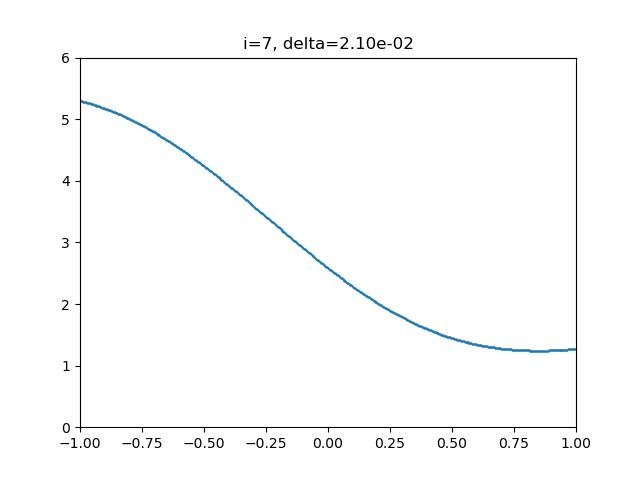
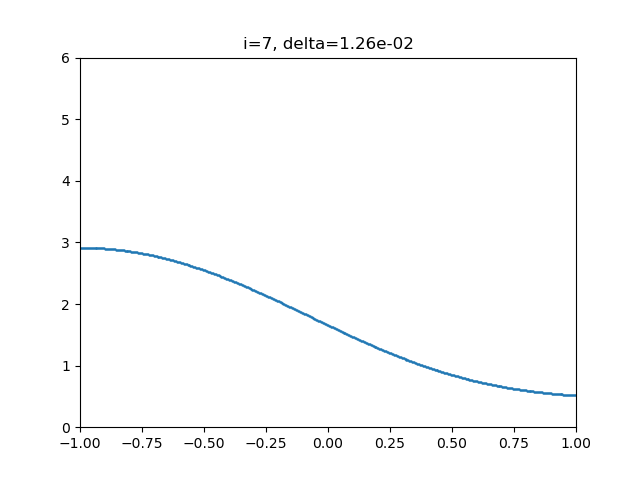
task 7 was fixed, task 8 was added

diff --git a/outputs/0_animation.html b/outputs/0_animation.html
@@ -184,39 +184,39 @@ input[type=range].anim-slider {
 </style>
 
 <div class="animation">
-  <img id="_anim_imgc8ce92f489d84e89b8b072ae55164c63">
+  <img id="_anim_imgd9055da04b454811bb088c3e8a7cc24a">
   <div class="anim-controls">
-    <input id="_anim_sliderc8ce92f489d84e89b8b072ae55164c63" type="range" class="anim-slider"
+    <input id="_anim_sliderd9055da04b454811bb088c3e8a7cc24a" type="range" class="anim-slider"
            name="points" min="0" max="1" step="1" value="0"
-           oninput="animc8ce92f489d84e89b8b072ae55164c63.set_frame(parseInt(this.value));"></input>
+           oninput="animd9055da04b454811bb088c3e8a7cc24a.set_frame(parseInt(this.value));"></input>
     <div class="anim-buttons">
-      <button onclick="animc8ce92f489d84e89b8b072ae55164c63.slower()"><i class="fa fa-minus"></i></button>
-      <button onclick="animc8ce92f489d84e89b8b072ae55164c63.first_frame()"><i class="fa fa-fast-backward">
+      <button onclick="animd9055da04b454811bb088c3e8a7cc24a.slower()"><i class="fa fa-minus"></i></button>
+      <button onclick="animd9055da04b454811bb088c3e8a7cc24a.first_frame()"><i class="fa fa-fast-backward">
           </i></button>
-      <button onclick="animc8ce92f489d84e89b8b072ae55164c63.previous_frame()">
+      <button onclick="animd9055da04b454811bb088c3e8a7cc24a.previous_frame()">
           <i class="fa fa-step-backward"></i></button>
-      <button onclick="animc8ce92f489d84e89b8b072ae55164c63.reverse_animation()">
+      <button onclick="animd9055da04b454811bb088c3e8a7cc24a.reverse_animation()">
           <i class="fa fa-play fa-flip-horizontal"></i></button>
-      <button onclick="animc8ce92f489d84e89b8b072ae55164c63.pause_animation()"><i class="fa fa-pause">
+      <button onclick="animd9055da04b454811bb088c3e8a7cc24a.pause_animation()"><i class="fa fa-pause">
           </i></button>
-      <button onclick="animc8ce92f489d84e89b8b072ae55164c63.play_animation()"><i class="fa fa-play"></i>
+      <button onclick="animd9055da04b454811bb088c3e8a7cc24a.play_animation()"><i class="fa fa-play"></i>
           </button>
-      <button onclick="animc8ce92f489d84e89b8b072ae55164c63.next_frame()"><i class="fa fa-step-forward">
+      <button onclick="animd9055da04b454811bb088c3e8a7cc24a.next_frame()"><i class="fa fa-step-forward">
           </i></button>
-      <button onclick="animc8ce92f489d84e89b8b072ae55164c63.last_frame()"><i class="fa fa-fast-forward">
+      <button onclick="animd9055da04b454811bb088c3e8a7cc24a.last_frame()"><i class="fa fa-fast-forward">
           </i></button>
-      <button onclick="animc8ce92f489d84e89b8b072ae55164c63.faster()"><i class="fa fa-plus"></i></button>
+      <button onclick="animd9055da04b454811bb088c3e8a7cc24a.faster()"><i class="fa fa-plus"></i></button>
     </div>
-    <form action="#n" name="_anim_loop_selectc8ce92f489d84e89b8b072ae55164c63" class="anim-state">
-      <input type="radio" name="state" value="once" id="_anim_radio1_c8ce92f489d84e89b8b072ae55164c63"
+    <form action="#n" name="_anim_loop_selectd9055da04b454811bb088c3e8a7cc24a" class="anim-state">
+      <input type="radio" name="state" value="once" id="_anim_radio1_d9055da04b454811bb088c3e8a7cc24a"
              >
-      <label for="_anim_radio1_c8ce92f489d84e89b8b072ae55164c63">Once</label>
-      <input type="radio" name="state" value="loop" id="_anim_radio2_c8ce92f489d84e89b8b072ae55164c63"
+      <label for="_anim_radio1_d9055da04b454811bb088c3e8a7cc24a">Once</label>
+      <input type="radio" name="state" value="loop" id="_anim_radio2_d9055da04b454811bb088c3e8a7cc24a"
              checked>
-      <label for="_anim_radio2_c8ce92f489d84e89b8b072ae55164c63">Loop</label>
-      <input type="radio" name="state" value="reflect" id="_anim_radio3_c8ce92f489d84e89b8b072ae55164c63"
+      <label for="_anim_radio2_d9055da04b454811bb088c3e8a7cc24a">Loop</label>
+      <input type="radio" name="state" value="reflect" id="_anim_radio3_d9055da04b454811bb088c3e8a7cc24a"
              >
-      <label for="_anim_radio3_c8ce92f489d84e89b8b072ae55164c63">Reflect</label>
+      <label for="_anim_radio3_d9055da04b454811bb088c3e8a7cc24a">Reflect</label>
     </form>
   </div>
 </div>
@@ -226,12 +226,12 @@ input[type=range].anim-slider {
   /* Instantiate the Animation class. */
   /* The IDs given should match those used in the template above. */
   (function() {
-    var img_id = "_anim_imgc8ce92f489d84e89b8b072ae55164c63";
-    var slider_id = "_anim_sliderc8ce92f489d84e89b8b072ae55164c63";
-    var loop_select_id = "_anim_loop_selectc8ce92f489d84e89b8b072ae55164c63";
-    var frames = new Array(12);
+    var img_id = "_anim_imgd9055da04b454811bb088c3e8a7cc24a";
+    var slider_id = "_anim_sliderd9055da04b454811bb088c3e8a7cc24a";
+    var loop_select_id = "_anim_loop_selectd9055da04b454811bb088c3e8a7cc24a";
+    var frames = new Array(13);
     
-  for (var i=0; i<12; i++){
+  for (var i=0; i<13; i++){
     frames[i] = "0_animation_frames/frame" + ("0000000" + i).slice(-7) +
                 ".png";
   }
@@ -240,7 +240,7 @@ input[type=range].anim-slider {
     /* set a timeout to make sure all the above elements are created before
        the object is initialized. */
     setTimeout(function() {
-        animc8ce92f489d84e89b8b072ae55164c63 = new Animation(frames, img_id, slider_id, 1000,
+        animd9055da04b454811bb088c3e8a7cc24a = new Animation(frames, img_id, slider_id, 1000,
                                  loop_select_id);
     }, 0);
   })()

diff --git a/outputs/1_animation.html b/outputs/1_animation.html
@@ -184,39 +184,39 @@ input[type=range].anim-slider {
 </style>
 
 <div class="animation">
-  <img id="_anim_img7eeaee0e0ad34b0995c63a7d59d06fbf">
+  <img id="_anim_imga8a99677afc74dcd87624b9c88a11443">
   <div class="anim-controls">
-    <input id="_anim_slider7eeaee0e0ad34b0995c63a7d59d06fbf" type="range" class="anim-slider"
+    <input id="_anim_slidera8a99677afc74dcd87624b9c88a11443" type="range" class="anim-slider"
            name="points" min="0" max="1" step="1" value="0"
-           oninput="anim7eeaee0e0ad34b0995c63a7d59d06fbf.set_frame(parseInt(this.value));"></input>
+           oninput="anima8a99677afc74dcd87624b9c88a11443.set_frame(parseInt(this.value));"></input>
     <div class="anim-buttons">
-      <button onclick="anim7eeaee0e0ad34b0995c63a7d59d06fbf.slower()"><i class="fa fa-minus"></i></button>
-      <button onclick="anim7eeaee0e0ad34b0995c63a7d59d06fbf.first_frame()"><i class="fa fa-fast-backward">
+      <button onclick="anima8a99677afc74dcd87624b9c88a11443.slower()"><i class="fa fa-minus"></i></button>
+      <button onclick="anima8a99677afc74dcd87624b9c88a11443.first_frame()"><i class="fa fa-fast-backward">
           </i></button>
-      <button onclick="anim7eeaee0e0ad34b0995c63a7d59d06fbf.previous_frame()">
+      <button onclick="anima8a99677afc74dcd87624b9c88a11443.previous_frame()">
           <i class="fa fa-step-backward"></i></button>
-      <button onclick="anim7eeaee0e0ad34b0995c63a7d59d06fbf.reverse_animation()">
+      <button onclick="anima8a99677afc74dcd87624b9c88a11443.reverse_animation()">
           <i class="fa fa-play fa-flip-horizontal"></i></button>
-      <button onclick="anim7eeaee0e0ad34b0995c63a7d59d06fbf.pause_animation()"><i class="fa fa-pause">
+      <button onclick="anima8a99677afc74dcd87624b9c88a11443.pause_animation()"><i class="fa fa-pause">
           </i></button>
-      <button onclick="anim7eeaee0e0ad34b0995c63a7d59d06fbf.play_animation()"><i class="fa fa-play"></i>
+      <button onclick="anima8a99677afc74dcd87624b9c88a11443.play_animation()"><i class="fa fa-play"></i>
           </button>
-      <button onclick="anim7eeaee0e0ad34b0995c63a7d59d06fbf.next_frame()"><i class="fa fa-step-forward">
+      <button onclick="anima8a99677afc74dcd87624b9c88a11443.next_frame()"><i class="fa fa-step-forward">
           </i></button>
-      <button onclick="anim7eeaee0e0ad34b0995c63a7d59d06fbf.last_frame()"><i class="fa fa-fast-forward">
+      <button onclick="anima8a99677afc74dcd87624b9c88a11443.last_frame()"><i class="fa fa-fast-forward">
           </i></button>
-      <button onclick="anim7eeaee0e0ad34b0995c63a7d59d06fbf.faster()"><i class="fa fa-plus"></i></button>
+      <button onclick="anima8a99677afc74dcd87624b9c88a11443.faster()"><i class="fa fa-plus"></i></button>
     </div>
-    <form action="#n" name="_anim_loop_select7eeaee0e0ad34b0995c63a7d59d06fbf" class="anim-state">
-      <input type="radio" name="state" value="once" id="_anim_radio1_7eeaee0e0ad34b0995c63a7d59d06fbf"
+    <form action="#n" name="_anim_loop_selecta8a99677afc74dcd87624b9c88a11443" class="anim-state">
+      <input type="radio" name="state" value="once" id="_anim_radio1_a8a99677afc74dcd87624b9c88a11443"
              >
-      <label for="_anim_radio1_7eeaee0e0ad34b0995c63a7d59d06fbf">Once</label>
-      <input type="radio" name="state" value="loop" id="_anim_radio2_7eeaee0e0ad34b0995c63a7d59d06fbf"
+      <label for="_anim_radio1_a8a99677afc74dcd87624b9c88a11443">Once</label>
+      <input type="radio" name="state" value="loop" id="_anim_radio2_a8a99677afc74dcd87624b9c88a11443"
              checked>
-      <label for="_anim_radio2_7eeaee0e0ad34b0995c63a7d59d06fbf">Loop</label>
-      <input type="radio" name="state" value="reflect" id="_anim_radio3_7eeaee0e0ad34b0995c63a7d59d06fbf"
+      <label for="_anim_radio2_a8a99677afc74dcd87624b9c88a11443">Loop</label>
+      <input type="radio" name="state" value="reflect" id="_anim_radio3_a8a99677afc74dcd87624b9c88a11443"
              >
-      <label for="_anim_radio3_7eeaee0e0ad34b0995c63a7d59d06fbf">Reflect</label>
+      <label for="_anim_radio3_a8a99677afc74dcd87624b9c88a11443">Reflect</label>
     </form>
   </div>
 </div>
@@ -226,9 +226,9 @@ input[type=range].anim-slider {
   /* Instantiate the Animation class. */
   /* The IDs given should match those used in the template above. */
   (function() {
-    var img_id = "_anim_img7eeaee0e0ad34b0995c63a7d59d06fbf";
-    var slider_id = "_anim_slider7eeaee0e0ad34b0995c63a7d59d06fbf";
-    var loop_select_id = "_anim_loop_select7eeaee0e0ad34b0995c63a7d59d06fbf";
+    var img_id = "_anim_imga8a99677afc74dcd87624b9c88a11443";
+    var slider_id = "_anim_slidera8a99677afc74dcd87624b9c88a11443";
+    var loop_select_id = "_anim_loop_selecta8a99677afc74dcd87624b9c88a11443";
     var frames = new Array(16);
     
   for (var i=0; i<16; i++){
@@ -240,7 +240,7 @@ input[type=range].anim-slider {
     /* set a timeout to make sure all the above elements are created before
        the object is initialized. */
     setTimeout(function() {
-        anim7eeaee0e0ad34b0995c63a7d59d06fbf = new Animation(frames, img_id, slider_id, 1000,
+        anima8a99677afc74dcd87624b9c88a11443 = new Animation(frames, img_id, slider_id, 1000,
                                  loop_select_id);
     }, 0);
   })()

diff --git a/mak_cm/task8.py b/mak_cm/task8.py
@@ -1,0 +1,187 @@
+'''Задание 8'''
+
+
+import numpy as np
+from scipy.integrate import simps
+from scipy.special import eval_jacobi, jacobi
+import matplotlib.pyplot as plt
+
+from task7 import BoundaryProblem, solve_bp_system
+
+
+class RitzFormProblem:
+    '''Ly = −(p(x)y′)′ + r(x)y = f(x)
+    
+    alpha1*y(-1) - alpha2*y'(-1) = 0
+    beta1*y(1) + beta2*y'(1) = 0
+    '''
+    def __init__(self, p, r, f, alpha1, alpha2, beta1, beta2):
+        self.p = p
+        self.r = r
+        self.f = f
+        self.alpha1 = alpha1
+        self.alpha2 = alpha2
+        self.beta1 = beta1
+        self.beta2 = beta2
+
+
+class Basis:
+    '''Базис функций'''
+    def __init__(self, w, diff_w):
+        if len(w) != len(diff_w):
+            raise ValueError('HMM!')
+        self.w = w
+        self.diff_w = diff_w
+
+
+def integrate(fun, A, B, m):
+    '''Метод составных квадратур СИМПСОН'''
+    h = (B - A)/(2*m)
+    s = fun(A) + fun(B)
+    for i in range(1, 2*m, 2):
+        s += 4*fun(A + i*h)
+    for i in range(2, 2*m-1, 2):
+        s += 2*fun(A + i*h)
+    s = s * (B - A) / (6*m)
+    return s
+
+
+def integration_wrapper(int_fun):
+    '''Декоратор для встроенных функций интегрирования'''
+    def wrapper(int_expr, a, b, n):
+        x = np.linspace(a, b, n)
+        y = np.vectorize(int_expr) (x)
+        return int_fun(y, x)
+    return wrapper
+
+
+class RitzSolver():
+    '''Алгоритм Ритца'''
+    def __init__(self, rfp, basis, integrator='scipy', n=100):
+        self.rfp = rfp
+        self.basis = basis
+        self.set_integrator(integrator)
+        self.n = n
+
+    def set_integrator(self, integrator='scipy'):
+        if integrator == 'numpy':
+            self.integrator = integration_wrapper(np.trapz)
+        elif integrator == 'scipy':
+            self.integrator = integration_wrapper(simps)
+        elif integrator == 'self-made':
+            self.integrator = integrate
+        else:
+            raise ValueError('Unknown type of integrator.')
+
+    def set_n(self, n):
+        '''Параметр для составной квадратурной формулы'''
+        self.n = n
+    
+    def set_basis(self, basis):
+        self.basis = basis
+
+    def bilineal_form(self, i, j):
+        '''Вычисляет билинейную между двумя векторами
+        базиса. Использует численные методы.'''
+        rfp, basis = self.rfp, self.basis
+
+        def int_expr(x):
+            return (rfp.p(x) * basis.diff_w[i](x) * basis.diff_w[j](x)
+                    + rfp.r(x) * basis.w[i](x) * basis.w[j](x))
+        
+        int_res = self.integrator(int_expr, -1, 1, self.n)
+        if rfp.alpha1 == 0 or rfp.alpha2 == 0:
+            Q_l = 0
+            Q_r = 0
+        else:
+            Q_l = (rfp.alpha1 / rfp.alpha2
+                   * rfp.p(-1) * basis.w[i](-1) * basis.w[j](-1))
+            Q_r = (rfp.beta1 / rfp.beta2 
+                   * rfp.p(1) * basis.w[i](1) * basis.w[j](1))
+        return int_res + Q_l + Q_r
+    
+    def scalar_mult(self, f, g):
+        '''Скалярное произведение в L2(-1, 1)'''
+        int_expr = lambda x: f(x)*g(x)
+        int_res = self.integrator(int_expr, -1, 1, self.n)
+        return int_res
+    
+    def solve(self):
+        '''Решает систему'''
+        b_len = len(self.basis.w) # Размер базиса
+        A = np.empty((b_len, b_len))
+        b = np.empty(b_len)
+        for i in range(b_len):
+            b[i] = self.scalar_mult(self.rfp.f, self.basis.w[i])
+            for j in range(b_len):
+                A[i, j] = self.bilineal_form(i, j)
+        return np.linalg.solve(A, b)
+
+
+def comp(x, basis, coefs):
+    '''Вычисляет ответ для заданых базиса и коэффициентов'''
+    s = 0
+    for w, c in zip(basis.w, coefs):
+        s += w(x)*c
+    return s
+
+
+def jacobi_polynom(n):
+    '''Многочлен Якоби k = 1'''
+    return lambda x: eval_jacobi(n, 1, 1, x)
+
+
+def jacobi_dx(n):
+    '''Производные'''
+    coefs = jacobi(n, 1, 1)
+    coefs_dx = np.polyder(coefs, 1)
+    return lambda x: np.sum(coefs_dx * np.power(x, np.arange(n + 1)))
+
+
+def get_jacobi_basis(n):
+    '''Возращает базис'''
+    return Basis([jacobi_polynom(i) for i in range(n)],
+                 [jacobi_dx(i) for i in range(n)])
+
+
+if __name__ == '__main__':
+    np.random.seed(111)
+    grid_n = 10**3
+    basis_n = 30
+
+    bp = BoundaryProblem(
+        k=lambda x: - 1 / (x + 2),
+        p=lambda x: 1 / (x + 2)**2,
+        q=np.cos,
+        f=lambda x: 1 + x,
+        ap1=1,
+        ap2=0,
+        ap=0,
+        bt1=1,
+        bt2=0,
+        bt=0,
+        a=-1,
+        b=1
+    )
+    u = solve_bp_system(bp, grid_n)
+
+    u_len = len(u)
+    x = np.linspace(-1, 1, u_len)
+
+    rfp = RitzFormProblem(
+        p=lambda x: 1 / (2 + x),
+        r=np.cos,
+        f=lambda x: 1 + x,
+        alpha1=1,
+        alpha2=0,
+        beta1=1,
+        beta2=0
+    )
+    basis = get_jacobi_basis(basis_n)
+    solver = RitzSolver(rfp, basis)
+    coefs = solver.solve()
+    u2 = np.vectorize(lambda x: comp(x, basis, coefs)) (x)
+    
+    plt.plot(x, u)
+    plt.plot(x, u2)
+    plt.show()

diff --git a/mak_cm/task7.py b/mak_cm/task7.py
@@ -51,8 +51,8 @@ def get_system(bp: BoundaryProblem, n: int):
     B[n] = h*bp.bt1 + bp.bt2
     C[0] = bp.ap2
     C[n] = 0
-    D[0] = h * bp.a
-    D[n] = h * bp.b
+    D[0] = h * bp.ap
+    D[n] = h * bp.bt
     for i in range(1, n):
         A[i] = 2*bp.k(x[i]) - h*bp.p(x[i])
         B[i] = -4*bp.k(x[i]) + 2*h*h*bp.q(x[i])
@@ -149,7 +149,7 @@ def get_problems():
 def get_lims():
     '''Границы графиков'''
     return [
-        ((-1, 1), (-3, 1)),
+        ((-1, 1), (-6, 1)),
         ((-1, 1), (0, 6))
     ]
 
